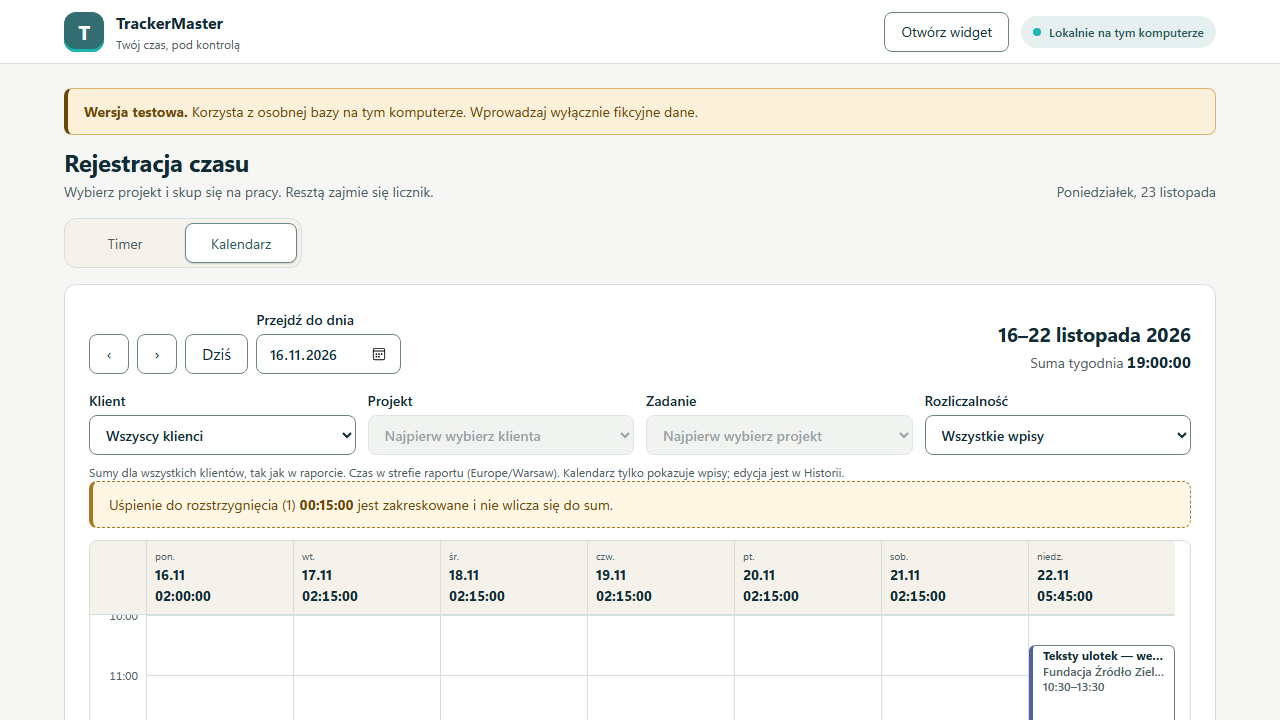
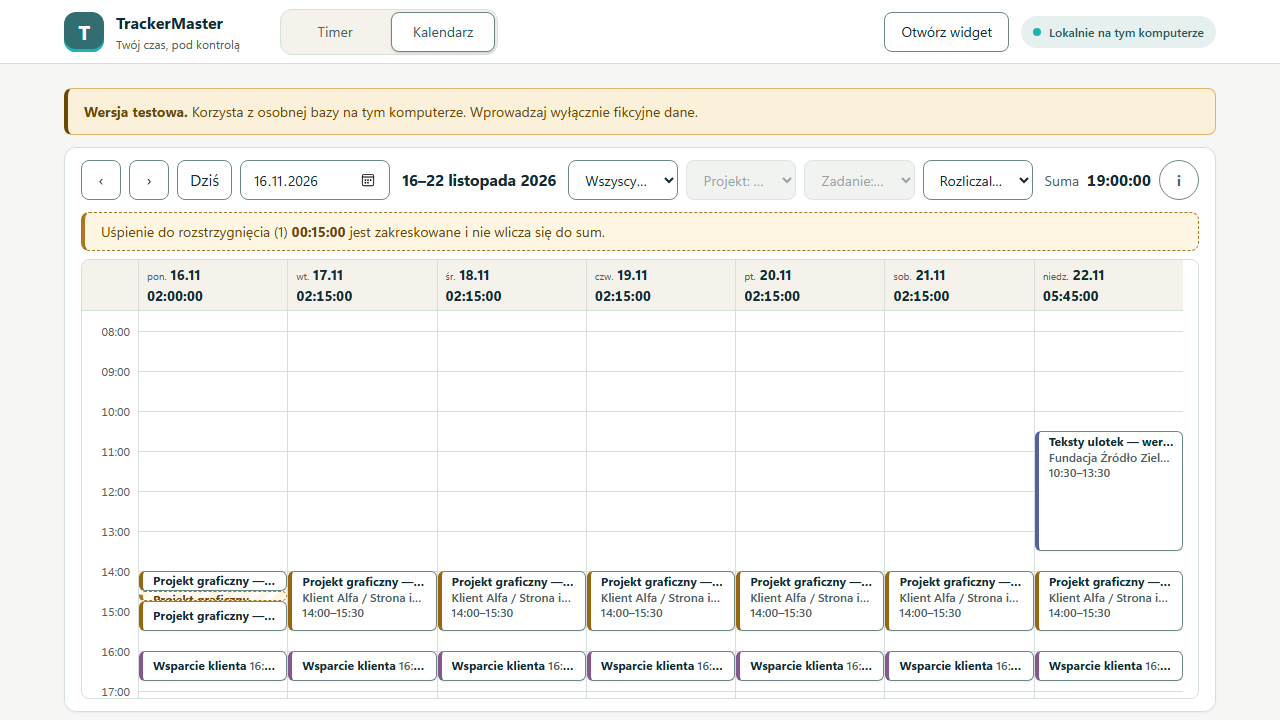
fix(DEV-24): denser calendar layout, grid fills the window (PR #63 review)
- Timer / Kalendarz switch moved into the top bar; the "Rejestracja czasu" heading is hidden in the
  calendar view.
- One compact toolbar row of 40 px controls: ‹ › Dziś, date picker, week range, compact filter
  selects (labels in aria-label/title), week sum with an "i" button for the note on how sums are counted.
  Below 1180 px the filters move to a second row and the sum stays in the first one.
- The grid fills the rest of the window (measured, min 240 px) and scrolls inside; sticky day header
  with date and sum; 40 px per hour (about 10.9 h visible at 1280×720, 6.1 h at 1024×576 / 125 % DPI).
  The minimum block height stays 24 px (converted to minutes for the scale).
- Default scroll: two hours before now in the current week, about 08:00 in other weeks.
- E2E UI_LAYOUT: at least 8 visible hours of the axis at 1280×720 and a sticky day header.
- Screenshots updated.

diff --git a/src/CalendarWeek.tsx b/src/CalendarWeek.tsx
@@ -1,6 +1,6 @@
 import { useEffect, useLayoutEffect, useMemo, useRef, useState } from 'react';
 import type { KeyboardEvent as ReactKeyboardEvent } from 'react';
-import { calendarWeek, clockText, DAY_MINUTES, pieceRange, shiftWeek, validCalendarDate, weekLabel, weekStartOf } from './calendarModel';
+import { calendarWeek, clockText, DAY_MINUTES, MIN_BLOCK_PX, pieceRange, shiftWeek, validCalendarDate, weekLabel, weekStartOf } from './calendarModel';
 import type { CalendarBillable, CalendarBlock, CalendarClockEntry, CalendarFilter } from './calendarModel';
 import { formatDuration as duration } from './reportCsv';
 import { dateInZone } from './reportTime';
@@ -30,13 +30,21 @@ function readSaved(): Saved {
 }
 function save(value: Saved) { try { window.localStorage.setItem(STORAGE_KEY, JSON.stringify(value)); } catch { /* convenience only */ } }
 
-const HOUR_PX = 60;
+// 40 px per hour: about 10 hours of the axis at 1280×720 and 6 at 125 % DPI (PO, PR #63 review).
+const HOUR_PX = 40;
 const MINUTE_PX = HOUR_PX / 60;
+const MIN_MINUTES = Math.ceil(MIN_BLOCK_PX / MINUTE_PX);
+/** Smallest height of the scrolling grid when the window is very low; the page scrolls below that. */
+const MIN_GRID_PX = 240;
 const weekday = new Intl.DateTimeFormat('pl-PL', { weekday: 'short', timeZone: 'UTC' });
 const dayNumber = new Intl.DateTimeFormat('pl-PL', { day: 'numeric', month: 'numeric', timeZone: 'UTC' });
 const utc = (date: string) => { const [y, m, d] = date.split('-').map(Number); return Date.UTC(y, m - 1, d); };
 const fullDate = (ms: number, zone: string) => new Intl.DateTimeFormat('pl-PL', { dateStyle: 'medium', timeStyle: 'short', timeZone: zone }).format(ms);
 const kindLabel = { work: '', pending: 'Uśpienie do rozstrzygnięcia, nie wliczone do sum', unverified: 'Pomiar do weryfikacji, nie wliczony do sum' };
+
+function scopeNote(filtered: boolean, zone: string | undefined): string {
+  return `${filtered ? 'Sumy dotyczą wybranych filtrów, tak jak raport z tymi samymi filtrami.' : 'Sumy dla wszystkich klientów, tak jak w raporcie.'} Dni w strefie raportu${zone ? ` (${zone})` : ''}. Uśpienie do rozstrzygnięcia i pomiar do weryfikacji nie wliczają się do sum. Kalendarz tylko pokazuje wpisy; edycja jest w Historii.`;
+}
 
 function blockLabel(block: CalendarBlock): string {
   const state = block.kind !== 'work' ? kindLabel[block.kind] : block.running ? `w trakcie, ${duration(block.seconds)} w tym dniu` : duration(block.seconds);
@@ -52,6 +60,8 @@ export default function CalendarWeek({ report, catalog, loaded, now, snapshotAct
   const [billable, setBillable] = useState<CalendarBillable>(saved.billable ?? 'all');
   const [selected, setSelected] = useState<string | null>(null);
   const [scopeNotice, setScopeNotice] = useState('');
+  const [noteOpen, setNoteOpen] = useState(false);
+  const [gridHeight, setGridHeight] = useState<number | null>(null);
   const shownWeek = week ?? (today ? weekStartOf(today) : null);
   const blockRefs = useRef(new Map<string, HTMLButtonElement>());
   const body = useRef<HTMLDivElement>(null);
@@ -64,7 +74,7 @@ export default function CalendarWeek({ report, catalog, loaded, now, snapshotAct
   const filter: CalendarFilter = { scope, billable };
   const view = useMemo(() => {
     if (!report.read || !shownWeek || resolved.problem) return null;
-    try { return calendarWeek({ data: report.read.data, catalog, filter, weekStart: shownWeek, now, snapshotActive, snapshotFresh }); }
+    try { return calendarWeek({ data: report.read.data, catalog, filter, weekStart: shownWeek, now, snapshotActive, snapshotFresh, minMinutes: MIN_MINUTES }); }
     catch { return null; }
   }, [report.read, catalog, scope, billable, shownWeek, now, snapshotActive, snapshotFresh, resolved.problem]);
   const blocks = view ? view.days.flatMap(day => day.blocks) : [];
@@ -72,13 +82,27 @@ export default function CalendarWeek({ report, catalog, loaded, now, snapshotAct
   const filtered = scope.clientId !== null || billable !== 'all';
   const clientLabelById = useMemo(() => clientLabels(catalog.clients as { id: number | string; name: string }[]), [catalog.clients]);
 
-  // Scroll once per week: to the current hour this week, else to the first entry, else to 07:00.
+  // Scroll once per week: this week to two hours before now, other weeks to about 08:00.
   useLayoutEffect(() => {
     if (!view || !body.current || scrolledFor.current === view.from) return;
     scrolledFor.current = view.from;
-    const first = Math.min(...blocks.map(block => block.top), Infinity);
-    const minute = view.nowMinute !== null ? view.nowMinute - 120 : Number.isFinite(first) ? first - 30 : 7 * 60;
+    const minute = view.nowMinute !== null ? view.nowMinute - 120 : 8 * 60 - 30;
     body.current.scrollTop = Math.max(0, minute) * MINUTE_PX;
+  });
+  // The grid fills the rest of the window and scrolls inside; the day header stays on top (sticky).
+  useLayoutEffect(() => {
+    function fit() {
+      const node = body.current;
+      if (!node) return;
+      const top = node.getBoundingClientRect().top + window.scrollY;
+      const card = node.closest('.calendar');
+      const below = card ? card.getBoundingClientRect().bottom - node.getBoundingClientRect().bottom : 0;
+      const next = Math.max(MIN_GRID_PX, Math.floor(window.innerHeight - top - below - 8));
+      setGridHeight(current => current === next ? current : next);
+    }
+    fit();
+    window.addEventListener('resize', fit);
+    return () => window.removeEventListener('resize', fit);
   });
   useEffect(() => { if (chosen) dialog.current?.focus(); }, [chosen?.key]);
   useEffect(() => { if (selected && !chosen) setSelected(null); }, [selected, chosen]);
@@ -103,32 +127,31 @@ export default function CalendarWeek({ report, catalog, loaded, now, snapshotAct
         <button type="button" className="secondary" aria-label="Poprzedni tydzień" disabled={!shownWeek} onClick={() => shownWeek && go(shiftWeek(shownWeek, -1))}>‹</button>
         <button type="button" className="secondary" aria-label="Następny tydzień" disabled={!shownWeek} onClick={() => shownWeek && go(shiftWeek(shownWeek, 1))}>›</button>
         <button type="button" className="secondary" disabled={!today || (!!shownWeek && !!today && weekStartOf(today) === shownWeek)} onClick={() => go(null)}>Dziś</button>
-        <label className="calendar-date">Przejdź do dnia<input type="date" value={shownWeek ?? ''} min="1970-01-05"
-          onChange={event => { if (validCalendarDate(event.target.value)) go(weekStartOf(event.target.value)); }} /></label>
+        <input type="date" className="calendar-date" aria-label="Przejdź do dnia" title="Przejdź do dnia" value={shownWeek ?? ''} min="1970-01-05"
+          onChange={event => { if (validCalendarDate(event.target.value)) go(weekStartOf(event.target.value)); }} />
       </div>
-      <div className="calendar-heading">
-        <h2>{view ? weekLabel(view.from, view.through) : 'Tydzień'}</h2>
-        <p><span>Suma tygodnia</span> <strong className="calendar-week-total" aria-live="off">{view ? duration(view.weekSeconds) : '—'}</strong></p>
-      </div>
-    </div>
-    <div className="selectors calendar-filters" role="group" aria-label="Filtry kalendarza">
-      <label>Klient<select value={scope.clientId ?? ''} onChange={event => changeScope('clientId', event.target.value)}>
+      <h2 className="calendar-range">{view ? weekLabel(view.from, view.through) : 'Tydzień'}</h2>
+      <div className="calendar-filters" role="group" aria-label="Filtry kalendarza">
+      <select aria-label="Klient" title="Klient" value={scope.clientId ?? ''} onChange={event => changeScope('clientId', event.target.value)}>
         <option value="">Wszyscy klienci</option>
         {catalog.clients.map(item => <option key={item.id} value={item.id}>{clientLabelById.get(String(item.id)) ?? item.name}{item.archived ? ' (archiwum)' : ''}</option>)}
-      </select></label>
-      <label>Projekt<select value={scope.projectId ?? ''} disabled={!resolved.client} onChange={event => changeScope('projectId', event.target.value)}>
-        <option value="">{resolved.client ? 'Wszystkie projekty' : 'Najpierw wybierz klienta'}</option>
+      </select>
+      <select aria-label="Projekt" title="Projekt" value={scope.projectId ?? ''} disabled={!resolved.client} onChange={event => changeScope('projectId', event.target.value)}>
+        <option value="">{resolved.client ? 'Wszystkie projekty' : 'Projekt: najpierw klient'}</option>
         {projectChoices.map(item => <option key={item.id} value={item.id}>{item.name}{item.archived ? ' (archiwum)' : ''}</option>)}
-      </select></label>
-      <label>Zadanie<select value={scope.taskId ?? ''} disabled={!resolved.project} onChange={event => changeScope('taskId', event.target.value)}>
-        <option value="">{resolved.project ? 'Wszystkie zadania i wpisy bez zadania' : 'Najpierw wybierz projekt'}</option>
+      </select>
+      <select aria-label="Zadanie" title="Zadanie" value={scope.taskId ?? ''} disabled={!resolved.project} onChange={event => changeScope('taskId', event.target.value)}>
+        <option value="">{resolved.project ? 'Wszystkie zadania' : 'Zadanie: najpierw projekt'}</option>
         {taskChoices.map(item => <option key={item.id} value={item.id}>{item.name}{item.archived ? ' (archiwum)' : ''}</option>)}
-      </select></label>
-      <label>Rozliczalność<select value={billable} onChange={event => setBillable(event.target.value as CalendarBillable)}>
-        <option value="all">Wszystkie wpisy</option><option value="billable">Tylko rozliczalne</option><option value="nonbillable">Tylko nierozliczalne</option>
-      </select></label>
+      </select>
+      <select aria-label="Rozliczalność" title="Rozliczalność" value={billable} onChange={event => setBillable(event.target.value as CalendarBillable)}>
+        <option value="all">Rozliczalne i nie</option><option value="billable">Tylko rozliczalne</option><option value="nonbillable">Tylko nierozliczalne</option>
+      </select>
+      </div>
+      <p className="calendar-total"><span>{filtered ? 'Suma (filtry)' : 'Suma'}</span> <strong className="calendar-week-total" aria-live="off">{view ? duration(view.weekSeconds) : '—'}</strong>
+        <button type="button" className="secondary calendar-info" aria-label="Jak liczone są sumy" aria-expanded={noteOpen} aria-controls="calendar-scope-note" title={scopeNote(filtered, zone)} onClick={() => setNoteOpen(open => !open)}><span aria-hidden="true">i</span></button></p>
     </div>
-    <p className="helper calendar-scope-note">{filtered ? 'Sumy dotyczą wybranych filtrów, tak jak w raporcie z tymi samymi filtrami.' : 'Sumy dla wszystkich klientów, tak jak w raporcie. Czas w strefie raportu'}{zone ? ` (${zone}).` : '.'}{' '}Kalendarz tylko pokazuje wpisy; edycja jest w Historii.</p>
+    {noteOpen && <p id="calendar-scope-note" role="note" className="helper calendar-scope-note">{scopeNote(filtered, zone)}</p>}
     {scopeNotice && <p role="status" className="helper">{scopeNotice}</p>}
     {resolved.problem && <p role="alert" className="alert error">{resolved.problem} Wybierz inny filtr.</p>}
     {!loaded ? <p role="status" className="alert error">Dane nie są aktualne. Odczytaj je ponownie w widoku Timer.</p>
@@ -142,7 +165,7 @@ export default function CalendarWeek({ report, catalog, loaded, now, snapshotAct
         {view.pendingPeriodCount > 0 && <p role="status" className="alert">Uśpienie do rozstrzygnięcia ({view.pendingPeriodCount}) <strong>{duration(view.pendingSeconds)}</strong> jest zakreskowane i nie wlicza się do sum.</p>}
         {view.unverifiedActive && <p role="status" className="alert">Aktywny pomiar wymaga weryfikacji. Jest zakreskowany i nie wlicza się do sum.</p>}
         <div className="calendar-grid">
-          <div className="calendar-body" ref={body} tabIndex={-1}>
+          <div className="calendar-body" ref={body} tabIndex={-1} style={gridHeight ? { height: gridHeight } : undefined}>
           <div className="calendar-head" aria-hidden="true">
             <span />
             {view.days.map(day => <span key={day.date} className={day.isToday ? 'calendar-day-head is-today' : 'calendar-day-head'}>

diff --git a/src/calendar.css b/src/calendar.css
@@ -1,37 +1,41 @@
 /* Calendar (DEV-24): Quiet Precision tokens from app.css only; no colours or custom properties here. */
-.view-switch { display: inline-flex; gap: var(--space-1); padding: var(--space-1); margin-bottom: var(--space-4); border: 1px solid var(--color-border); border-radius: var(--radius-lg); background: var(--color-surface-muted); }
-.app-shell .view-switch button { min-width: 112px; border-color: transparent; background: transparent; color: var(--color-text-muted); }
+/* View switch in the top bar (both views). */
+.view-switch { display: inline-flex; gap: var(--space-1); padding: 2px; margin-right: auto; margin-left: var(--space-6); border: 1px solid var(--color-border); border-radius: var(--radius-lg); background: var(--color-surface-muted); }
+.app-shell .view-switch button { min-width: 104px; border-color: transparent; background: transparent; color: var(--color-text-muted); }
 .app-shell .view-switch button[aria-pressed='true'] { background: var(--color-surface); border-color: var(--color-border-control); color: var(--color-accent-strong); box-shadow: var(--shadow-control); }
+.heading[hidden] { display: none; }
 
-.calendar { position: relative; }
-.calendar-toolbar { display: flex; flex-wrap: wrap; align-items: flex-end; justify-content: space-between; gap: var(--space-3) var(--space-4); }
-.calendar-nav { display: flex; flex-wrap: wrap; align-items: flex-end; gap: var(--space-2); }
-.app-shell .calendar-nav > button { min-width: var(--control-h); font-size: var(--text-md); }
-.calendar-date { display: grid; gap: var(--space-1); font-size: var(--text-xs); color: var(--color-text-muted); }
-.calendar-date input { min-height: var(--control-h); }
-.calendar-heading { text-align: right; }
-.calendar-heading h2 { margin: 0; font-size: var(--text-lg); }
-.calendar-heading p { margin: var(--space-1) 0 0; color: var(--color-text-muted); font-size: var(--text-sm); }
-.calendar-heading strong { color: var(--color-text); font-size: var(--text-md); font-variant-numeric: tabular-nums; }
-.calendar .calendar-filters { grid-template-columns: repeat(4, minmax(0, 1fr)); margin-top: var(--space-4); }
-.calendar-scope-note { margin: var(--space-2) 0 var(--space-3); }
+/* Calendar: one compact row of 40 px controls, then a grid that fills the rest of the window. */
+.app-shell .calendar { position: relative; padding: var(--space-3) var(--space-4) var(--space-3); }
+.calendar-toolbar { display: flex; flex-wrap: wrap; align-items: center; gap: var(--space-2) var(--space-3); margin-bottom: var(--space-3); }
+.calendar-nav { display: flex; align-items: center; gap: var(--space-2); }
+.app-shell .calendar-nav > button { min-width: var(--control-h); padding: 0 var(--space-3); font-size: var(--text-md); }
+.app-shell .calendar-date { width: 150px; min-height: var(--control-h); }
+.app-shell .calendar-range { margin: 0; font-size: var(--text-md); font-weight: 650; white-space: nowrap; }
+.calendar-filters { display: flex; flex: 1 1 360px; gap: var(--space-2); min-width: 0; }
+.app-shell .calendar-filters select { flex: 1 1 0; min-width: 0; max-width: 200px; min-height: var(--control-h); padding-top: 0; padding-bottom: 0; font-size: var(--text-sm); }
+.calendar-total { display: flex; align-items: center; gap: var(--space-2); margin: 0 0 0 auto; color: var(--color-text-muted); font-size: var(--text-sm); white-space: nowrap; }
+.calendar-total strong { color: var(--color-text); font-size: var(--text-md); font-variant-numeric: tabular-nums; }
+.app-shell .calendar-info { width: var(--control-h); min-width: var(--control-h); padding: 0; border-radius: 50%; font-weight: 700; }
+.calendar-scope-note { margin: 0 0 var(--space-3); }
+.calendar .alert { margin-bottom: var(--space-2); padding-top: var(--space-2); padding-bottom: var(--space-2); }
 .calendar-loading { color: var(--color-text-muted); font-size: var(--text-sm); }
 
 .calendar-grid { border: 1px solid var(--color-border); border-radius: var(--radius-md); overflow: hidden; background: var(--color-surface); }
 .calendar-head, .calendar-canvas { display: grid; grid-template-columns: 56px repeat(7, minmax(0, 1fr)); }
 .calendar-head { position: sticky; top: 0; z-index: 4; border-bottom: 1px solid var(--color-border); background: var(--color-surface-muted); }
-.calendar-day-head { display: grid; gap: 0; padding: var(--space-2); border-left: 1px solid var(--color-border); font-size: var(--text-xs); color: var(--color-text-muted); }
+.calendar-day-head { display: flex; flex-wrap: wrap; align-items: baseline; column-gap: var(--space-1); padding: var(--space-1) var(--space-2); border-left: 1px solid var(--color-border); font-size: var(--text-xs); color: var(--color-text-muted); }
 .calendar-day-head strong { color: var(--color-text); font-size: var(--text-sm); }
 .calendar-day-head.is-today { box-shadow: inset 0 -3px 0 var(--color-accent); }
 .calendar-day-head.is-today strong { color: var(--color-accent-strong); }
-.calendar-day-total { color: var(--color-text); font-size: var(--text-sm); font-weight: 650; font-variant-numeric: tabular-nums; }
-.calendar-body { height: min(62vh, 640px); min-height: 360px; overflow-y: auto; overflow-x: hidden; scrollbar-gutter: stable; }
+.calendar-day-total { flex-basis: 100%; color: var(--color-text); font-size: var(--text-sm); font-weight: 650; font-variant-numeric: tabular-nums; }
+.calendar-body { height: min(62vh, 640px); min-height: 240px; overflow-y: auto; overflow-x: hidden; scrollbar-gutter: stable; }
 .calendar-body:focus-visible { outline: 2px solid var(--color-focus); outline-offset: -2px; }
 .calendar-canvas { position: relative; }
 .calendar-hours { position: relative; }
 .calendar-hours span { position: absolute; right: var(--space-2); transform: translateY(-50%); color: var(--color-text-muted); font-size: var(--text-xs); font-variant-numeric: tabular-nums; }
 .calendar-hours span:first-child { transform: none; }
-.calendar-column { position: relative; border-left: 1px solid var(--color-border); background-image: linear-gradient(to bottom, var(--color-border) 1px, transparent 1px); background-size: 100% 60px; }
+.calendar-column { position: relative; border-left: 1px solid var(--color-border); background-image: linear-gradient(to bottom, var(--color-border) 1px, transparent 1px); background-size: 100% 40px; }
 .calendar-column.is-today { background-color: var(--color-accent-soft); }
 .calendar-empty-day { position: absolute; top: var(--space-2); left: 0; right: 0; text-align: center; color: var(--color-text-muted); font-size: var(--text-xs); }
 .calendar-empty { margin-top: var(--space-3); }
@@ -69,9 +73,11 @@
 .calendar-details dt { color: var(--color-text-muted); }
 .calendar-details dd { margin: 0; overflow-wrap: anywhere; }
 
-@media (max-width: 960px) {
-  .calendar .calendar-filters { grid-template-columns: repeat(2, minmax(0, 1fr)); }
-  .calendar-heading { text-align: left; }
+@media (max-width: 1180px) {
+  .calendar-filters { flex-basis: 100%; order: 3; }
+}
+@media (max-width: 900px) {
+  .view-switch { margin-left: var(--space-3); }
 }
 @media (forced-colors: active) {
   .calendar-block, .calendar-now { forced-color-adjust: auto; border-color: CanvasText; }

diff --git a/src/App.tsx b/src/App.tsx
@@ -322,11 +322,12 @@ export default function App() {
   if (restoreDone) return <div className="app-shell"><main><section className="card"><h1>Kopia została przywrócona</h1><p>Ze względów bezpieczeństwa zamknij aplikację i uruchom ją ponownie. Jeśli kopia zawierała otwarty pomiar, po uruchomieniu będzie on wymagał weryfikacji.</p><p>Kopia danych sprzed przywrócenia: <code>{restoreDone}</code>. Nie jest szyfrowana.</p>{error && <div role="alert" className="alert error">{error}</div>}<button className="primary" onClick={() => invoke('exit_after_restore').catch(e => setError(`Nie udało się zamknąć aplikacji: ${String(e)}`))}>Zamknij aplikację</button></section></main></div>;
 
   return <div className="app-shell">
-    <header className="topbar"><div className="brand"><span className="brand-mark">T</span><div><strong>TrackerMaster</strong><small>Twój czas, pod kontrolą</small></div></div><div className="topbar-actions"><button className="widget-open" onClick={() => invoke('open_widget').catch(e => setError(`Nie udało się otworzyć widgetu: ${String(e)}`))}>Otwórz widget</button><span className="local-pill"><span /> Lokalnie na tym komputerze</span></div></header>
+    <header className="topbar"><div className="brand"><span className="brand-mark">T</span><div><strong>TrackerMaster</strong><small>Twój czas, pod kontrolą</small></div></div>
+      <div className="view-switch" role="group" aria-label="Widok"><button type="button" aria-pressed={view === 'timer'} onClick={() => showView('timer')}>Timer</button><button type="button" aria-pressed={view === 'calendar'} onClick={() => showView('calendar')}>Kalendarz</button></div>
+      <div className="topbar-actions"><button className="widget-open" onClick={() => invoke('open_widget').catch(e => setError(`Nie udało się otworzyć widgetu: ${String(e)}`))}>Otwórz widget</button><span className="local-pill"><span /> Lokalnie na tym komputerze</span></div></header>
     <main>
       {import.meta.env.VITE_TRACKER_TEST_MODE === '1' && <div role="note" className="alert warning"><strong>Wersja testowa.</strong> Korzysta z osobnej bazy na tym komputerze. Wprowadzaj wyłącznie fikcyjne dane.</div>}
-      <div className="heading"><div><h1>Rejestracja czasu</h1><p className="subtitle">Wybierz projekt i skup się na pracy. Resztą zajmie się licznik.</p></div><div className="date">{new Intl.DateTimeFormat('pl-PL', { weekday: 'long', day: 'numeric', month: 'long' }).format(new Date())}</div></div>
-      <div className="view-switch" role="group" aria-label="Widok"><button type="button" aria-pressed={view === 'timer'} onClick={() => showView('timer')}>Timer</button><button type="button" aria-pressed={view === 'calendar'} onClick={() => showView('calendar')}>Kalendarz</button></div>
+      <div className="heading" hidden={view !== 'timer'}><div><h1>Rejestracja czasu</h1><p className="subtitle">Wybierz projekt i skup się na pracy. Resztą zajmie się licznik.</p></div><div className="date">{new Intl.DateTimeFormat('pl-PL', { weekday: 'long', day: 'numeric', month: 'long' }).format(new Date())}</div></div>
       {error && <div role="alert" className="alert error">{error}</div>}
       {!loaded && <div role="status" className="alert error">Dane nie są aktualne. Odczytaj je ponownie przed wykonaniem kolejnej operacji. <button type="button" disabled={busy} onClick={retryRefresh}>Ponów odczyt</button></div>}
       {/* One compact review banner (UIQ-01): title and one sentence, the end-time form, the sleep note with the

diff --git a/src/calendarModel.ts b/src/calendarModel.ts
@@ -28,6 +28,8 @@ export type CalendarClockEntry = {
 export const DAY_MINUTES = 24 * 60;
 /** Smallest block height on the axis (minutes), so a 1-minute entry stays visible and clickable. */
 export const MIN_BLOCK_MINUTES = 24;
+/** Smallest block height on screen (WCAG 2.5.8 target); the view converts it to minutes for its scale. */
+export const MIN_BLOCK_PX = 24;
 
 // ---------- Dates and weeks (reporting zone) ----------
 
